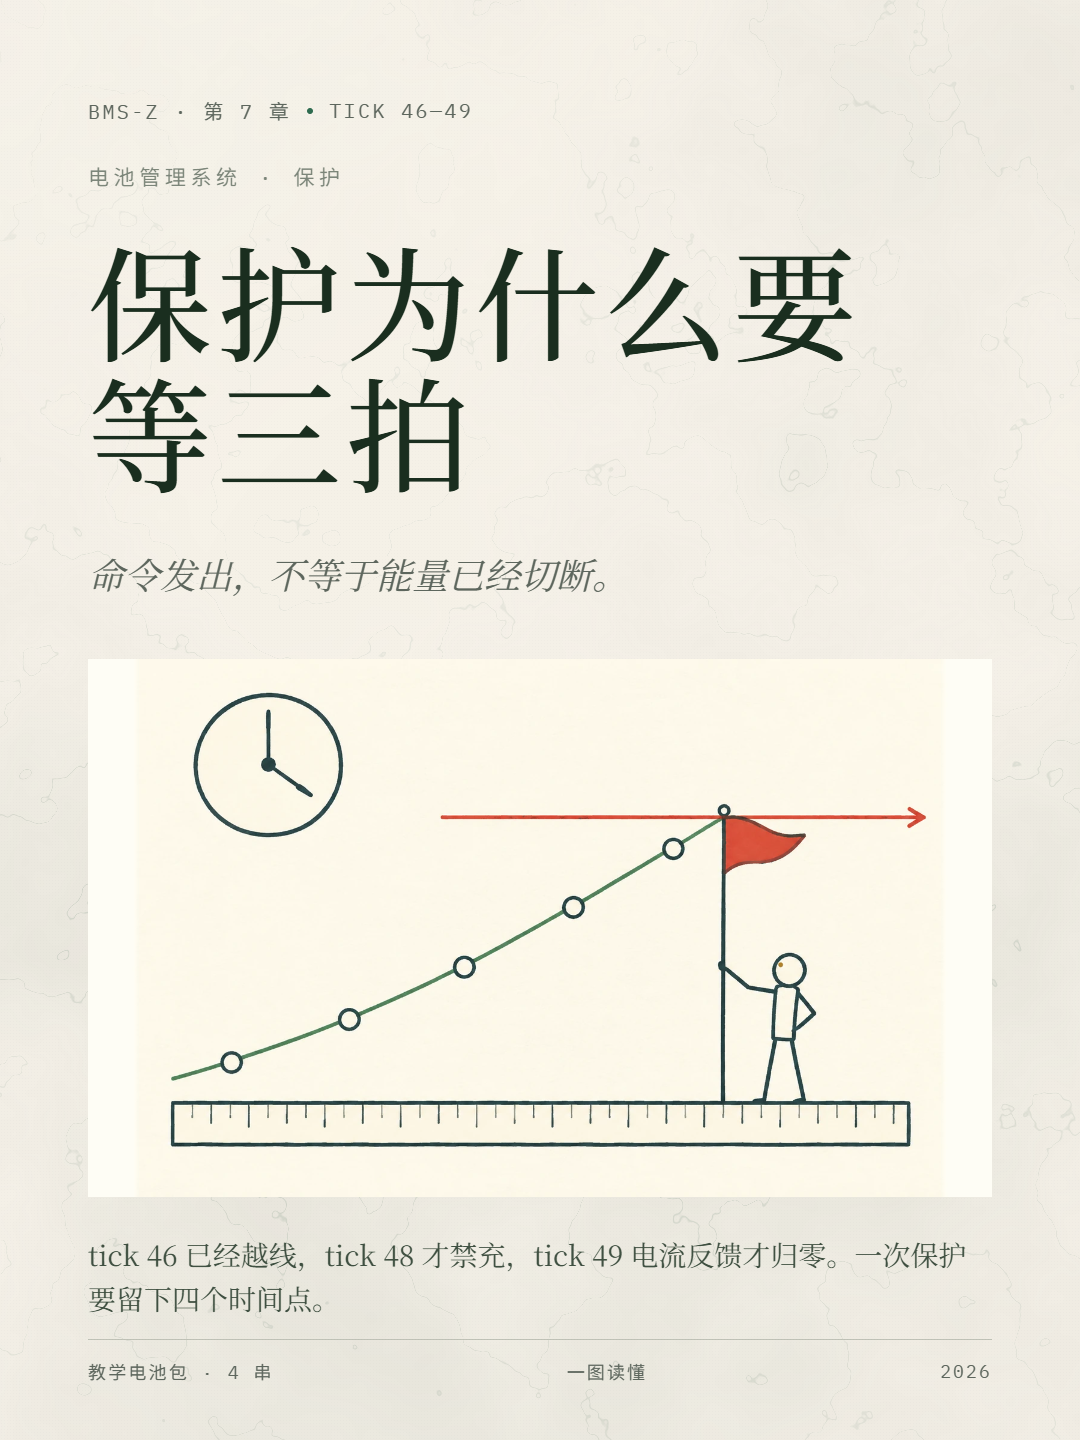
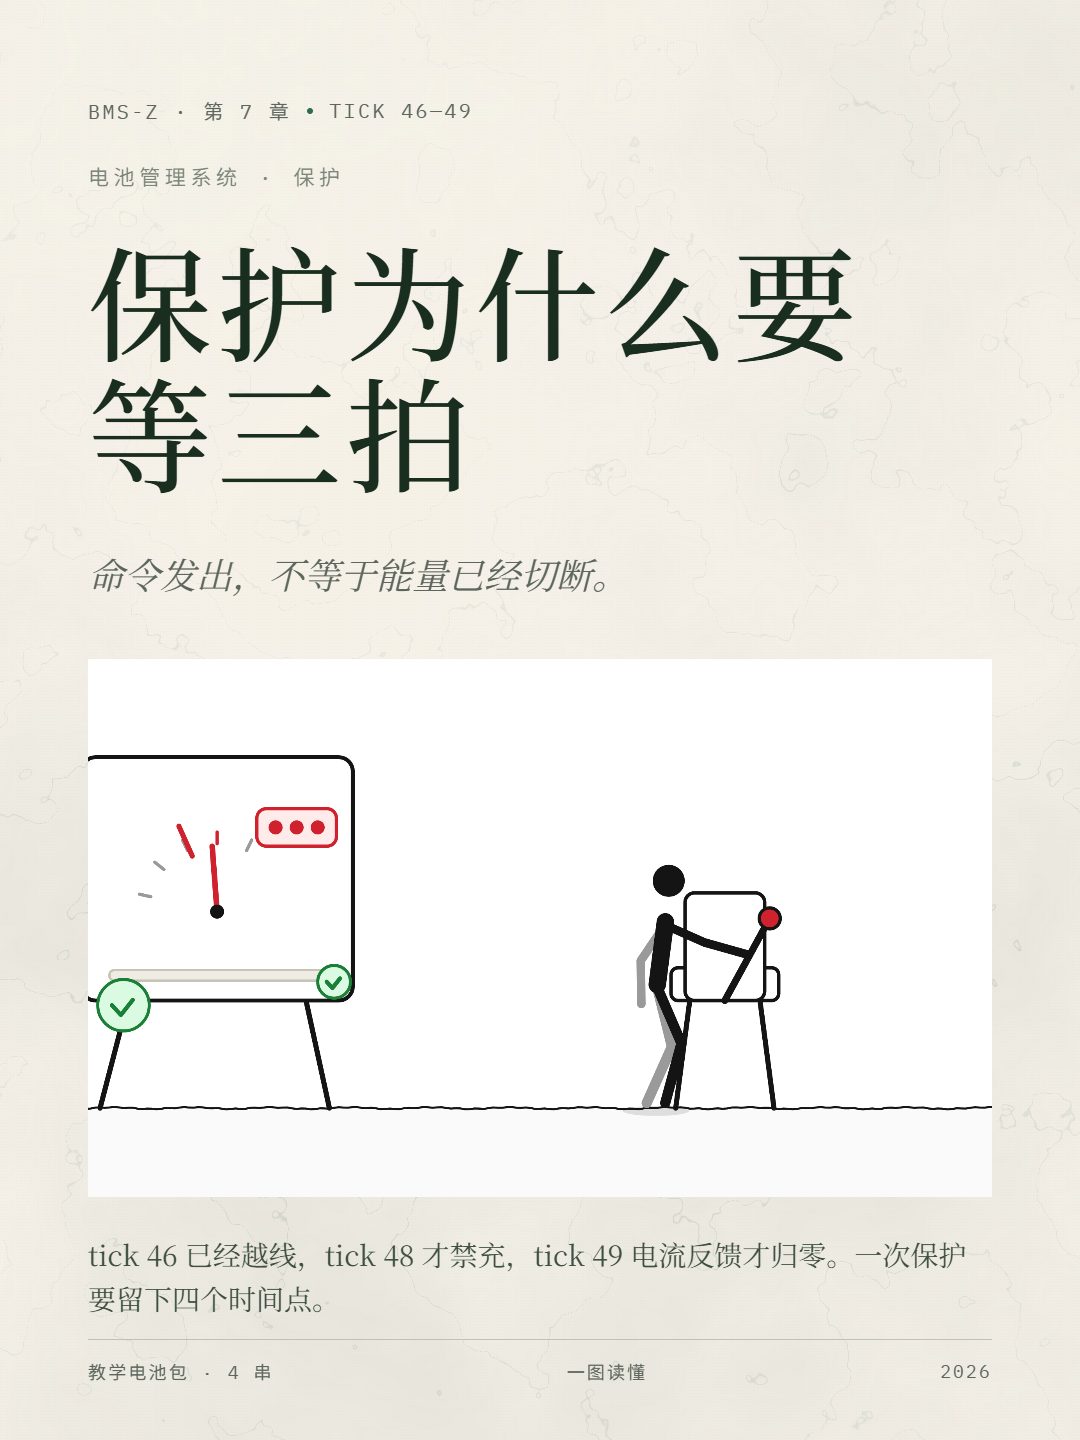
fix(links): repair dead references caught by the link sweep
- teaching spec: missing-semester moved to missing.csail.mit.edu (old domain 404)
- t13: QuantumScape shareholder letter PDF replaced with its web.archive.org
  capture (original 404); scheme-less original form so the bare-URL gate
  stays green
- spread posters/deck source + regenerated cards: cover art now points at the
  existing 07-tick-guard-cut.png (stick-scene), the retired webp is gone
- .lychee.toml: batteryarchive.org added to exclude (source site down, TLS
  failures from runner and home broadband alike, same class as highstar.com);
  rationale logged, monthly-review notes name it, domain count 21->22 kept
  consistent across README / maintainer notes / task board (check_docs green)

Changed region(s): [[0.0917, 0.4688, 0.8556, 0.8125], [0.4583, 0.625, 0.55, 0.6562], [0.3972, 0.6562, 0.4583, 0.6875]]

diff --git a/tools/spread/cards/07-protection-tick/posters.html b/tools/spread/cards/07-protection-tick/posters.html
@@ -12,7 +12,7 @@
           <p class="h-sub">命令发出，不等于能量已经切断。</p>
         </div>
         <figure class="frame-img r-16x10">
-          <img src="../../../../bms-book/assets/concepts/07-tick-guard.webp" alt="手绘示意：信号线逐拍上升，多枚采样点落在上面；一条水平红线是阈值，小人在带刻痕的尺子上扶着旗杆，红旗顶端抵住红线（AI 生成示意，非实拍）。" width="960" height="560">
+          <img src="../../../../bms-book/assets/concepts/07-tick-guard-cut.png" alt="手绘示意：电压指针压向红线，计数牌圆点逐拍转红，小人拉下切断杆，充电电流条先归零，两只绿勾确认（程序手绘示意，非实拍）。" width="960" height="560">
         </figure>
         <p class="lead">tick 46 已经越线，tick 48 才禁充，tick 49 电流反馈才归零。一次保护要留下四个时间点。</p>
       </div>

diff --git a/tools/spread/decks/07-protection-tick/slides.html b/tools/spread/decks/07-protection-tick/slides.html
@@ -179,7 +179,7 @@
       </div>
     </div>
     <figure class="frame-img r-16x10" data-anim>
-      <img src="../../../../bms-book/assets/concepts/07-tick-guard.webp" alt="手绘示意：信号线逐拍上升，多枚采样点落在上面；一条水平红线是阈值，红旗顶端抵住红线（AI 生成示意，非实拍）。" width="960" height="560">
+      <img src="../../../../bms-book/assets/concepts/07-tick-guard-cut.png" alt="手绘示意：电压指针压向红线，计数牌圆点逐拍转红，小人拉下切断杆，充电电流条先归零，两只绿勾确认（程序手绘示意，非实拍）。" width="960" height="560">
       <figcaption class="img-cap">图 7-1 · 每一拍重新问一遍「越线了吗」</figcaption>
     </figure>
   </div>

diff --git a/docs/public/spread/deck/07-protection-tick.html b/docs/public/spread/deck/07-protection-tick.html
@@ -1243,7 +1243,7 @@
       </div>
     </div>
     <figure class="frame-img r-16x10" data-anim>
-      <img src="assets/tick-guard.webp" alt="手绘示意：信号线逐拍上升，多枚采样点落在上面；一条水平红线是阈值，红旗顶端抵住红线（AI 生成示意，非实拍）。" width="960" height="560">
+      <img src="assets/tick-guard-cut.png" alt="手绘示意：电压指针压向红线，计数牌圆点逐拍转红，小人拉下切断杆，充电电流条先归零，两只绿勾确认（程序手绘示意，非实拍）。" width="960" height="560">
       <figcaption class="img-cap">图 7-1 · 每一拍重新问一遍「越线了吗」</figcaption>
     </figure>
   </div>

diff --git a/docs/t13-包级手册缺口.md b/docs/t13-包级手册缺口.md
@@ -44,7 +44,7 @@ search: true
 
 [QuantumScape 技术问答](https://www.quantumscape.com/battery-technology/)（英文）写明：陶瓷隔膜和有机液体正极电解液一起用；电芯按无负极制成，金属锂在第一次充电时形成。同一页写明多层商用电芯还没开发完，所以还没有对商用目标电芯和电池包做过安全测试。
 
-2024-10-23 的股东信给出 QSE-5 B 样、有限数量样品上的电芯测量：标称电压 3.8 V，操作压力 < 3.4 atm（[股东信 PDF](https://www.quantumscape.com/wp-content/uploads/2024/10/QS-Shareholder-Letter-Q3-2024.pdf)，英文）。
+2024-10-23 的股东信给出 QSE-5 B 样、有限数量样品上的电芯测量：标称电压 3.8 V，操作压力 < 3.4 atm（[股东信 PDF](https://web.archive.org/web/20241225110415/www.quantumscape.com/wp-content/uploads/2024/10/QS-Shareholder-Letter-Q3-2024.pdf)，英文；原链已 404，此为 archive 存档）。
 
 同一封信写明，测量做在有限数量的样品上，最终产品特性取决于电池包的最终设计，很可能和低产量样品不同。[第一眼看 B 样](https://www.quantumscape.com/a-first-look-at-the-qse-5-b-sample/)（英文）把操作压力写成这颗电芯按低于 3.4 atm 的外加压力来设计。
 
@@ -114,7 +114,7 @@ Solid Power 的量产包 BMS 手册（单体电压窗口、保护阈值、均衡
 BMS 上的教训：先写明装进去的是哪一颗、哪一版。采样脚位、寄存器地址、接触器时序和压力测点都还空着的时候，阈值表不能从另一颗电芯或一份废止标准里借。
 
 > **原理**　包级手册要同时交出采样接口、寄存器地图和保护阈值。电芯规格书只回答单体该在哪停。团体标准可以定义「要采集单体电压」，那仍然不是某一家的地址表。
-> **证据**　钠离子电芯动作见 [§0.1.11](stages/stage-0-前置知识.md#0111-公开规格书里的钠离子保护要求-理解)。包级定义见 T/QGCML 305—2022《有机系钠离子电池》，目录 [ndls.cnis.ac.cn](https://ndls.cnis.ac.cn/standard/detail/7101be92c62c98462007f97c8254ff37)：§3.5 的采集量和三级 BMS，表 1 的 0.2C 至 3.95 V；废止日期 2024-08-19。固态电芯测量见 QuantumScape [2024-10-23 股东信](https://www.quantumscape.com/wp-content/uploads/2024/10/QS-Shareholder-Letter-Q3-2024.pdf)（标称 3.8 V，操作压力 < 3.4 atm，有限样品；最终规格取决于电池包设计）和 [技术问答](https://www.quantumscape.com/battery-technology/)（液体正极电解液仍在，商用目标电池包的安全测试尚未做）。
+> **证据**　钠离子电芯动作见 [§0.1.11](stages/stage-0-前置知识.md#0111-公开规格书里的钠离子保护要求-理解)。包级定义见 T/QGCML 305—2022《有机系钠离子电池》，目录 [ndls.cnis.ac.cn](https://ndls.cnis.ac.cn/standard/detail/7101be92c62c98462007f97c8254ff37)：§3.5 的采集量和三级 BMS，表 1 的 0.2C 至 3.95 V；废止日期 2024-08-19。固态电芯测量见 QuantumScape [2024-10-23 股东信](https://web.archive.org/web/20241225110415/www.quantumscape.com/wp-content/uploads/2024/10/QS-Shareholder-Letter-Q3-2024.pdf)（标称 3.8 V，操作压力 < 3.4 atm，有限样品；最终规格取决于电池包设计；原链已 404，此为 archive 存档）和 [技术问答](https://www.quantumscape.com/battery-technology/)（液体正极电解液仍在，商用目标电池包的安全测试尚未做）。
 > **延伸阅读**　固态入门在 [§0.1.8](stages/stage-0-前置知识.md#018-固态电池固体电解质换掉了什么-理解)，结构电池在 [§0.1.9](stages/stage-0-前置知识.md#019-碳纤维结构电池电极在承力外壳是另一件事-理解)。认领仍见 [共建任务板 T13](共建任务板.md)。
 
 ## 还缺的文件

diff --git a/docs/共建任务板.md b/docs/共建任务板.md
@@ -19,7 +19,7 @@ search: false
 
 ### T2 月度外链人工复查
 
-**为什么需要。** [README 维护节](../README.md#维护) 和 `.lychee.toml` 排除了 21 个域名。它们不在 CI 里，真关停了没人知道。
+**为什么需要。** [README 维护节](../README.md#维护) 和 `.lychee.toml` 排除了 22 个域名。它们不在 CI 里，真关停了没人知道。
 
 **怎么做。** 浏览器逐个点开仓库里引用这些域名的链接。月查范围就是 `exclude` 里现在这 21 个，不要再按旧的 8、11、12、13、14、16、17、18 或 19 去数。挂掉的报成 Issue。
 

diff --git a/README.md b/README.md
@@ -183,7 +183,7 @@
 
 版本基线见 [Releases](https://github.com/zhuguang-ZFG/BMS-Z/releases)；变更记录见 [CHANGELOG.md](CHANGELOG.md)。
 
-被巡检整站排除的 21 个域名、为什么排除、以及 CI 只抓错误不做格式化的理由，写在 [维护说明](docs/维护说明.md)。月度复查仍按那一页人手点开。
+被巡检整站排除的 22 个域名、为什么排除、以及 CI 只抓错误不做格式化的理由，写在 [维护说明](docs/维护说明.md)。月度复查仍按那一页人手点开。
 
 ## 共建者
 
